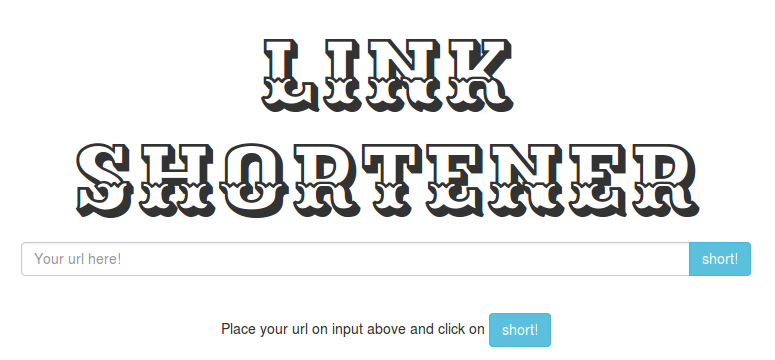
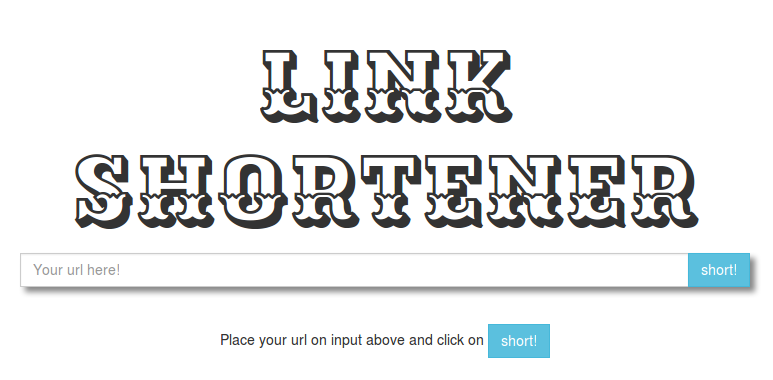
change css

diff --git a/public/style.css b/public/style.css
@@ -9,6 +9,14 @@ h1 {
   font-size: 10vmin;
 }
 
+.input-group {
+  box-shadow: 5px 5px 5px #888;
+}
+
+.form-control, .btn {
+  border-radius: 0px !important;
+}
+
 .content {
   margin-top: 10%;
 }
